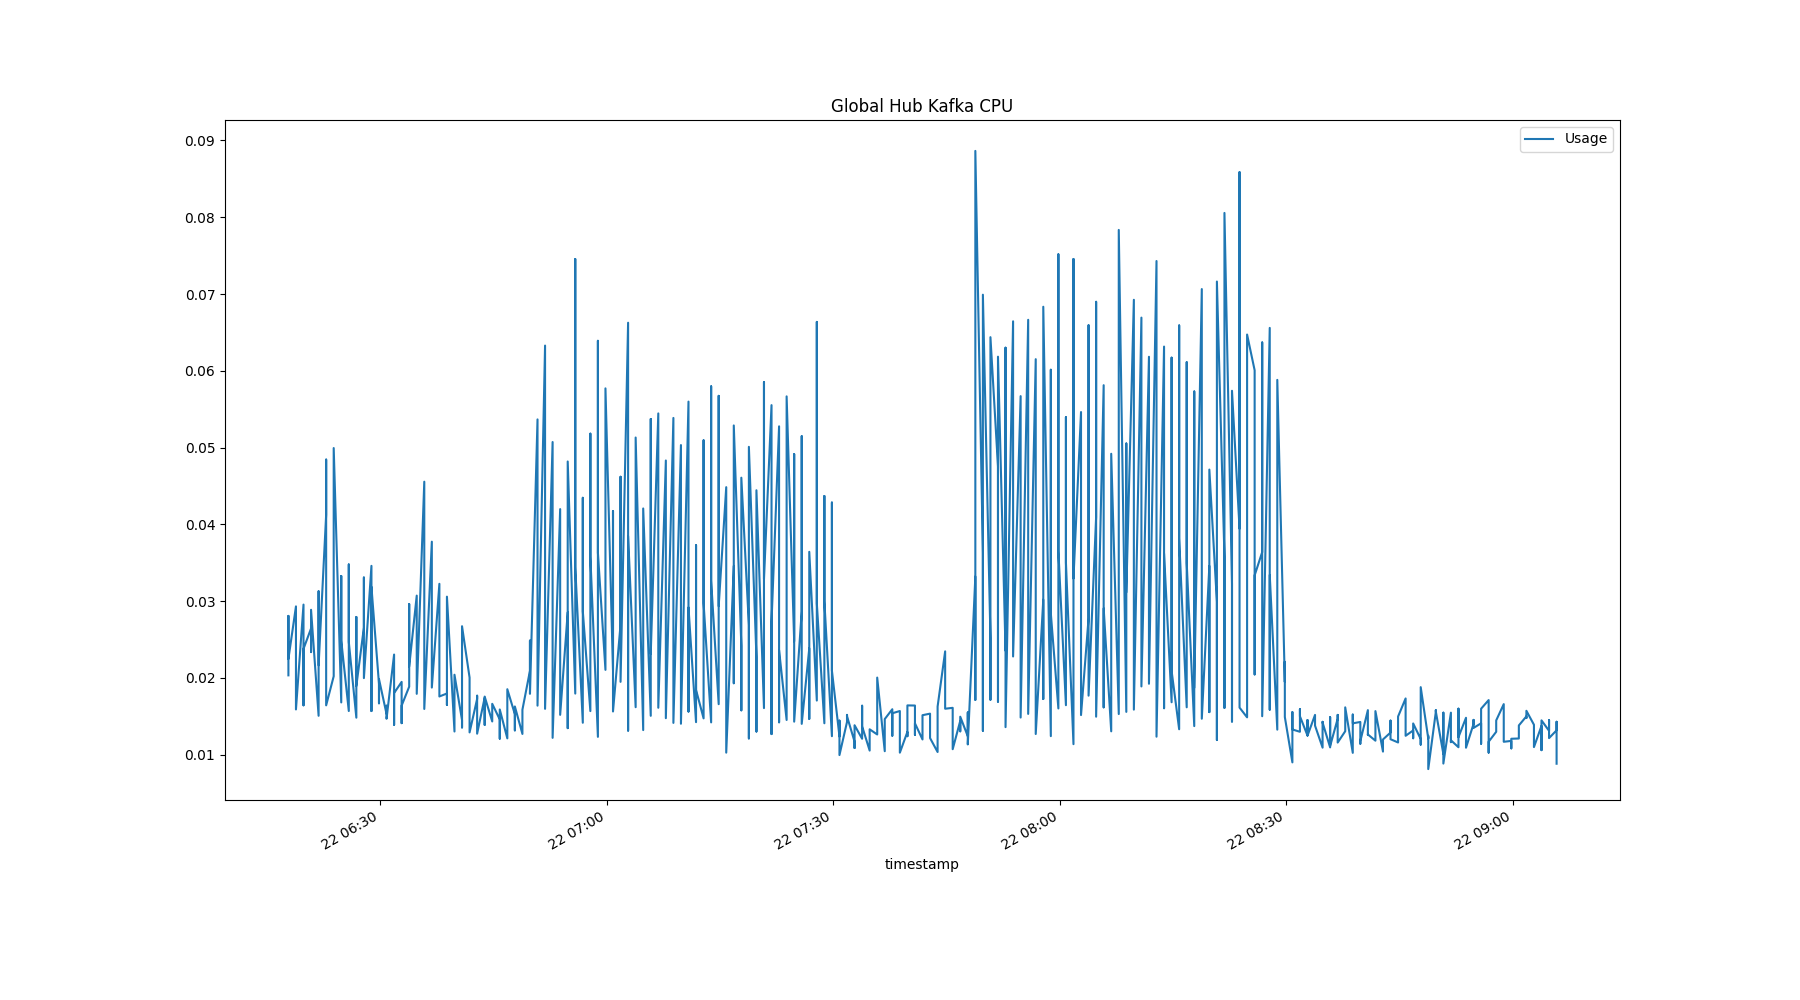
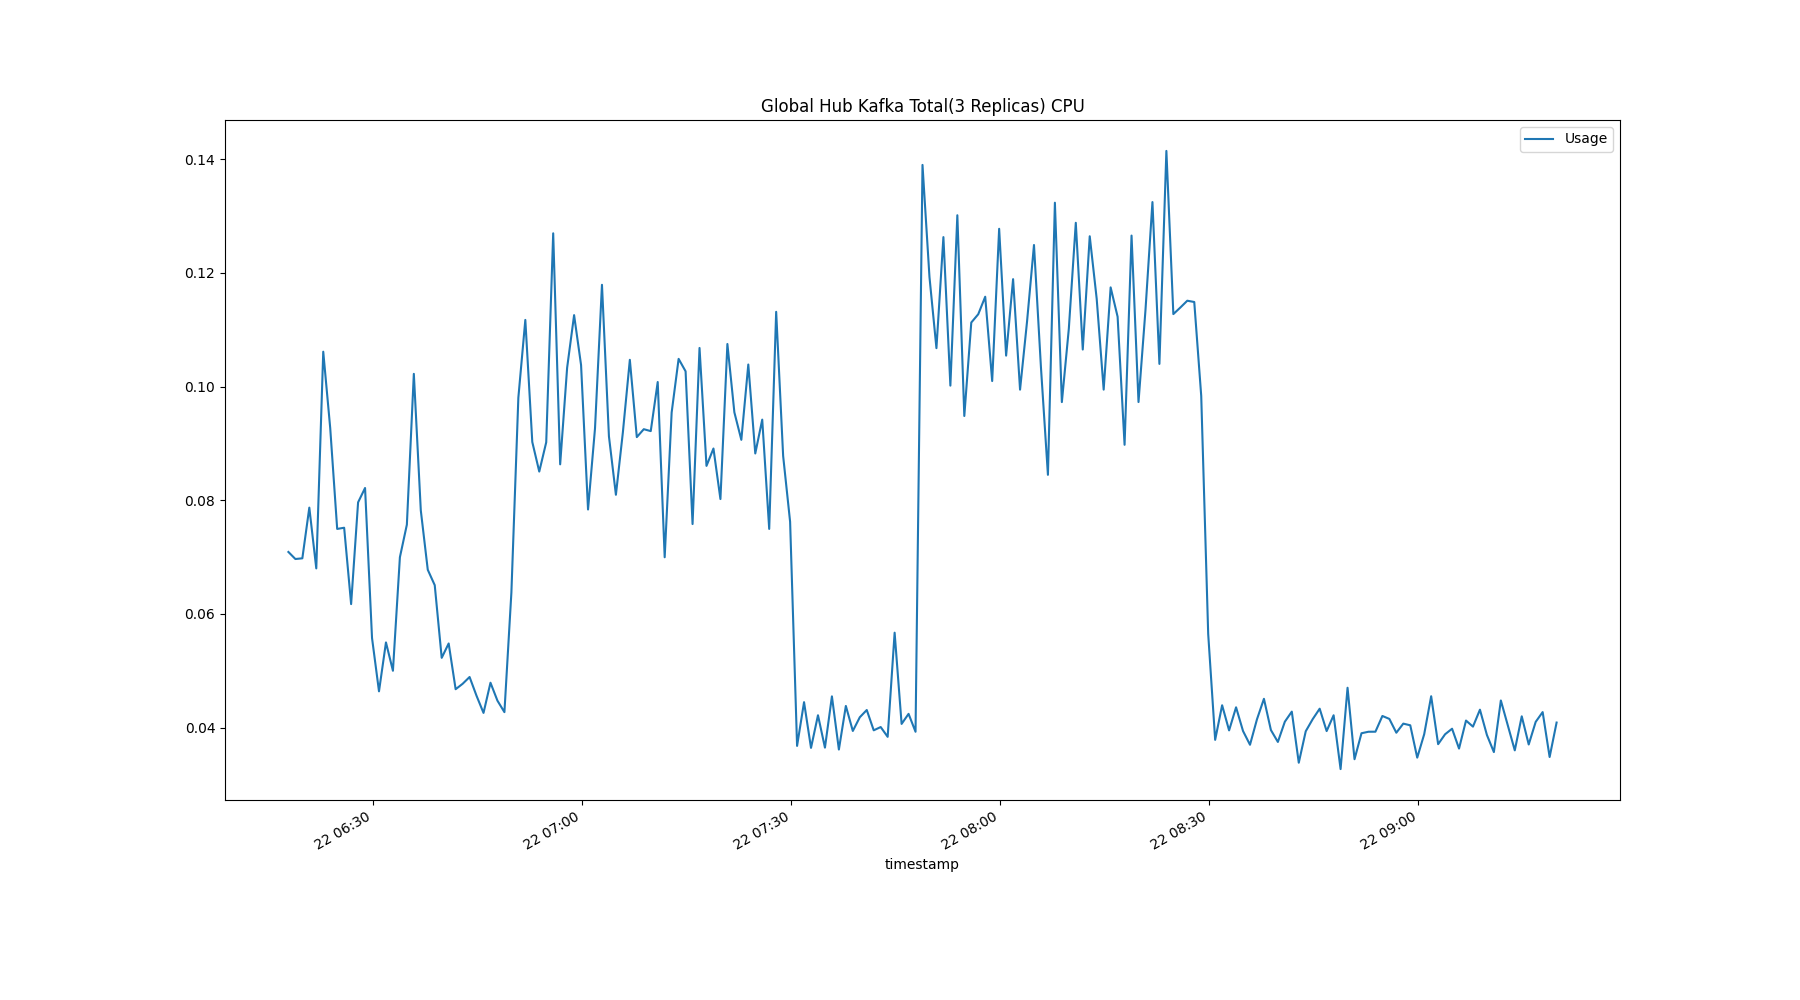
group the postgres and kafka by namespace

diff --git a/doc/simulation/inspector/src/memory_usage.py b/doc/simulation/inspector/src/memory_usage.py
@@ -204,7 +204,7 @@ def global_hub_grafana_memory_usage(pc, start_time, end_time, step):
     
 
 def global_hub_postgres_memory_usage(pc, start_time, end_time, step):
-    total = "Average Global Hub Postgres Memory MB"
+    total = "Global Hub Postgres Total(3 Replicas) Memory GB"
     file = "global-hub-postgres-memory-usage"
     print(total)
     
@@ -213,7 +213,7 @@ def global_hub_postgres_memory_usage(pc, start_time, end_time, step):
         query = '''
           sum(
             container_memory_usage_bytes{namespace="multicluster-global-hub", pod=~"postgres-pgha.*"}
-          ) by (namespace, pod) / (1024*1024) / 3
+          ) by (namespace) / (1024*1024*1024)
         '''
         global_hub_trend = pc.custom_query_range(
             query=query,
@@ -240,7 +240,7 @@ def global_hub_postgres_memory_usage(pc, start_time, end_time, step):
     print("=============================================")
     
 def global_hub_kafka_memory_usage(pc, start_time, end_time, step):
-    total = "Average Global Hub Kafka Memory MB"
+    total = "Global Hub Kafka Total(3 Replicas) Memory GB"
     file = "global-hub-kafka-memory-usage"
     print(total)
     
@@ -249,7 +249,7 @@ def global_hub_kafka_memory_usage(pc, start_time, end_time, step):
         query = '''
           sum(
             container_memory_usage_bytes{namespace="multicluster-global-hub", pod=~"kafka-kafka-.*"}
-          ) by (namespace, pod) / (1024*1024) / 3
+          ) by (namespace) / (1024*1024*1024)
         '''
         global_hub_trend = pc.custom_query_range(
             query=query,

diff --git a/doc/simulation/inspector/src/cpu_usage.py b/doc/simulation/inspector/src/cpu_usage.py
@@ -223,13 +223,13 @@ def global_hub_total(pc, start_time, end_time, step):
 
 def global_hub_postgres(pc, start_time, end_time, step):
     file = 'global-hub-postgres-cpu-usage'
-    title = 'Global Hub Postgres CPU'
+    title = 'Global Hub Total(3 Replicas) Postgres CPU'
     print(title)
     try:
         query = '''
         sum(
           node_namespace_pod_container:container_cpu_usage_seconds_total:sum_irate{namespace="multicluster-global-hub", pod=~"postgres-pgha.*"}
-        ) by (namespace, pod)
+        ) by (namespace)
         '''
         cpu_trend = pc.custom_query_range(
           query=query,
@@ -256,13 +256,13 @@ def global_hub_postgres(pc, start_time, end_time, step):
 
 def global_hub_kafka(pc, start_time, end_time, step):
     file = 'global-hub-kafka-cpu-usage'
-    title = 'Global Hub Kafka CPU'
+    title = 'Global Hub Kafka Total(3 Replicas) CPU'
     print(title)
     try:
         query = '''
         sum(
           node_namespace_pod_container:container_cpu_usage_seconds_total:sum_irate{namespace="multicluster-global-hub", pod=~"kafka-kafka-.*"}
-        ) by (namespace, pod)
+        ) by (namespace)
         '''
         cpu_trend = pc.custom_query_range(
           query=query,
